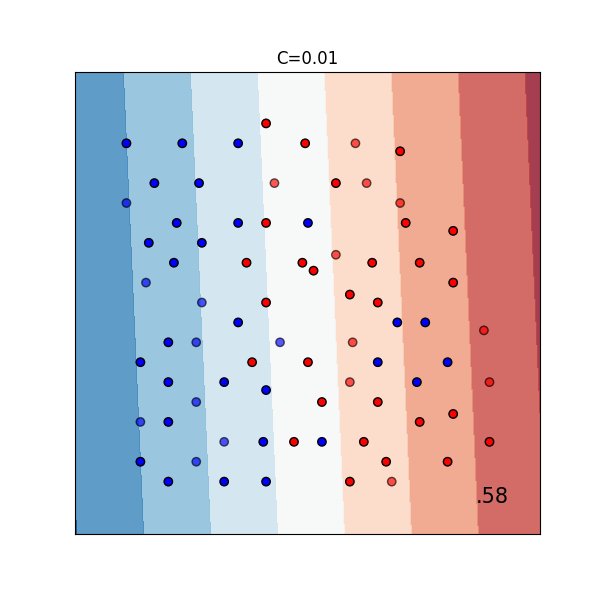
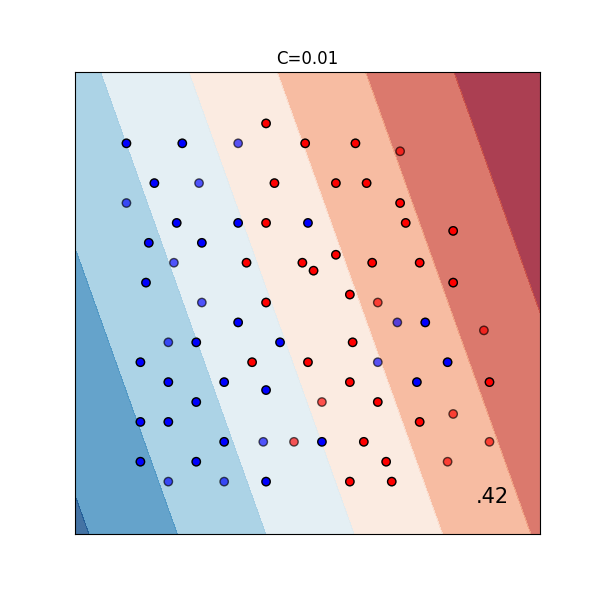
lab3: rbf angle not working

diff --git a/lab3/pum3-svm/main.py b/lab3/pum3-svm/main.py
@@ -120,6 +120,49 @@ def rbf_kernel_classic():
         plot_decision_function(gamma, f"Gamma={g}")
 
 
+def rbf_kernel_angular():
+    def kernel_fun(X, Y):
+        distance = np.sum((Y - X[:, np.newaxis])**2, axis=-1)
+        R_matrix = np.zeros(shape=distance.shape)
+        R_matrix.fill(R)
+        comparing_matrix = np.less(distance, R_matrix)
+
+        return comparing_matrix * 1
+
+    R_values = [0.5, 1, 1.5, 2, 2.5, 5]
+    for R in R_values:
+        angular = svm.SVC(kernel=kernel_fun)
+        plot_decision_function(angular, f"R={R}")
+
+
+def rbf_kernel_linear():
+    def kernel_fun(X, Y):
+        distance = np.sum((Y - X[:, np.newaxis])**2, axis=-1)
+        R_matrix = np.zeros(shape=distance.shape)
+        R_matrix.fill(R)
+        comparing_matrix = np.subtract(R, distance)
+        comparing_matrix = comparing_matrix / R
+
+        is_less = np.less(distance, R_matrix) * 1
+
+        return np.multiply(comparing_matrix, is_less)
+
+    R_values = [0.5, 1, 1.5, 2, 2.5, 5]
+    for R in R_values:
+        rbf_linear = svm.SVC(kernel=kernel_fun)
+        plot_decision_function(rbf_linear, f"linearR={R}")
+
+
+def rbf_kernel_angle():
+    def kernel_fun(X, Y):
+        cosinus = np.cos(X, Y)
+        print(cosinus)
+        return np.dot(X, Y.T)
+
+    rbf_angle = svm.SVC(kernel=kernel_fun)
+    plot_decision_function(rbf_angle, f"angleRBF")
+
+
 if __name__ == "__main__":
     dataset = get_dataset()
     dataset.save("starting_dataset")
@@ -158,3 +201,15 @@ if __name__ == "__main__":
     # RBF kernel
     print("RBF kernel...")
     rbf_kernel_classic()
+
+    # angular RBF
+    print("RBF kernel linear...")
+    rbf_kernel_angular()  # todo: no patrząc po wykresach raczej jest źle
+
+    # linear RBF function
+    print("Linear RBF...")
+    rbf_kernel_linear()
+
+    # RBF angle
+    print("RBF angle")
+    rbf_kernel_angle()
